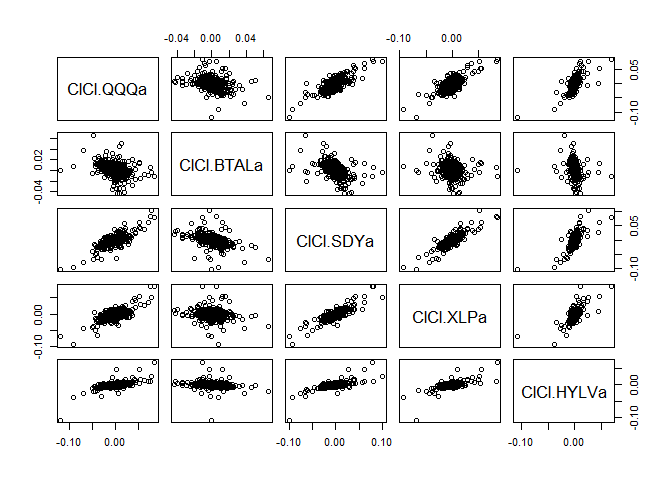
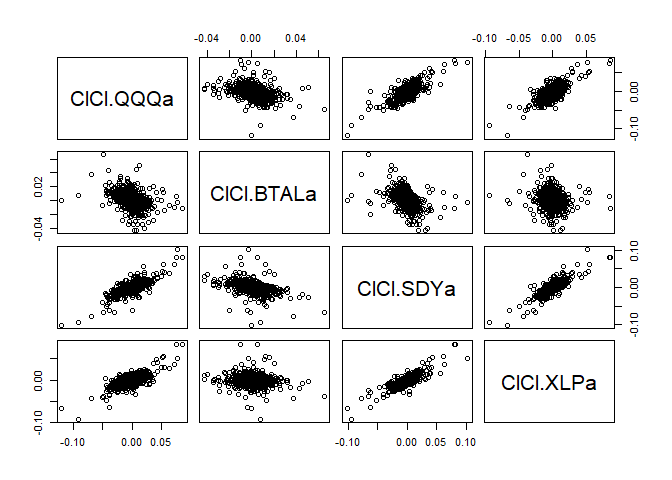
q3

diff --git a/Walker_Jocelyne_Exercises.md b/Walker_Jocelyne_Exercises.md
@@ -375,38 +375,150 @@ information?**
 Portfolio Modeling
 ------------------
 
+We are building three different ETF-based portfolios, each based on a
+different investment risk strategy. These three portfolios each are
+built on different ideas of tracking market movement. For each
+portfolio, we’ll use the last five years of daily data to calculate the
+5% value at risk using 20 trading day bootstrap resampling on a $100,000
+capital investment. Each of these portfolios is redistributed at the end
+of the day to maintain the stated portfolio weights.
+
 ### Portfolio 1: “In it for the long run”
 
-![](Walker_Jocelyne_Exercises_files/figure-markdown_strict/3.1-1.png)![](Walker_Jocelyne_Exercises_files/figure-markdown_strict/3.1-2.png)
+Portfolio 1 is built on the idea of tracking the S&P 500 movement. These
+ETFs are indicators of the entire market trends. Here’s a breakdown of
+the portfolio:
 
-    ## [1] 101406.3
+-   **20% VOO** Vanguard 500 Index Fund, built to track the S&P 500
 
-![](Walker_Jocelyne_Exercises_files/figure-markdown_strict/3.1-3.png)
+-   **20% VTWO** Vanguard Russell 2000 ETF, the next 2,000 diversified
+    stocks after excluding the largest US public companies
+
+-   **20% MGC** Vanguard Mega Cap ETF, diversified large blend domestic
+    ETF
+
+-   **20% SPYG** SPDR Portfolio S&P 500 Growth ETF, high growth large
+    cap companies
+
+-   **20% VTI** Vanguard Total Stock Market ETF, built to track S&P 500,
+    but more mid-cap exposure than VOO
+
+![](Walker_Jocelyne_Exercises_files/figure-markdown_strict/3.1-1.png)
+
+From the pairs correlation matrix above, you can see that the
+Close-to-Close earnings of each of these ETFs are highly correlated.
+Thus, when one goes up, the others also go up. When one goes down, they
+all go down. This is evidence that all of these ETFs are tracking market
+movement and largely moving in the same direction.
+
+Then, we simulate the 20-day trading period of this portfolio.
+
+![](Walker_Jocelyne_Exercises_files/figure-markdown_strict/3.1.a-1.png)![](Walker_Jocelyne_Exercises_files/figure-markdown_strict/3.1.a-2.png)
 
     ##        5% 
-    ## -8431.506
+    ## -8155.048
+
+From the histograms of the portfolio values and earnings, we see that
+negative earnings are a possibility. The 5% value at risk based on a
+20-day bootstrapped period is **-$8279.31** for this portfolio.
 
 ### Portfolio 2: “Thrive on Volatility”
 
-![](Walker_Jocelyne_Exercises_files/figure-markdown_strict/3.2-1.png)![](Walker_Jocelyne_Exercises_files/figure-markdown_strict/3.2-2.png)
+Portfolio 2 is built on the idea of thriving off market volatility.
+These ETFs are designed to thrive in volatile market conditions by
+increasing their diversity. Here’s a breakdown of the portfolio:
 
-    ## [1] 100971.4
+-   **25% QQQ** Invesco QQQ Trust, tracks the Nasdaq 100 index,
+    dominated by big tech names
 
-![](Walker_Jocelyne_Exercises_files/figure-markdown_strict/3.2-3.png)
+-   **25% BTAL** AGFiQ U.S. Market Neutral Anti-Beta Fund, profiting off
+    a spread between high and low beta stocks, performing well when low
+    beta stocks are in favor in stormy market conditions
+
+-   **25% SDY** SPDR S&P Dividend ETF, focusing on dividend growth
+    stocks. Dividends represent a safer return as firms will reduce
+    buybacks before cutting dividends.
+
+-   **25% XLP** SPDR Consumer Staples Select Sector, tracks consumer
+    household stable products like Walmart and Proctor and Gamble that
+    will not fall significantly during volatile markets
+
+![](Walker_Jocelyne_Exercises_files/figure-markdown_strict/3.2-1.png)
+From the pairs plot, we see that these four ETFs are much less strongly
+correlated than the ETFs in Portfolio 1. Thus, I expect this portfolio
+to be “safer” and have a higher Value at Risk.
+
+Then, we simulate the 20-day trading period of this portfolio.
+
+![](Walker_Jocelyne_Exercises_files/figure-markdown_strict/3.2.a-1.png)![](Walker_Jocelyne_Exercises_files/figure-markdown_strict/3.2.a-2.png)
 
     ##        5% 
-    ## -4855.049
+    ## -5047.678
 
-### Portfolio 3: “Bonds and Consumer Staples”
+From the histograms of the portfolio values and earnings, we see that
+negative earnings are a possibility. The 5% value at risk based on a
+20-day bootstrapped period is **-$5,047.68** for this portfolio. This is
+a much “safer” portfolio compared to the portfolio that simply tracks
+the S&P 500 above.
 
-![](Walker_Jocelyne_Exercises_files/figure-markdown_strict/3.3-1.png)![](Walker_Jocelyne_Exercises_files/figure-markdown_strict/3.3-2.png)
+### Portfolio 3: “Safety and Risk-Aversion with Bonds”
 
-    ## [1] 101024.7
+While Portfolio 2 was built on the idea of thriving off market
+volatility, Portfolio 3 attempts to avoid market volatility altogether.
+These “safe” ETFs are designed to withstand market volatility, but have
+a smaller potential return. Here’s a breakdown of the portfolio:
 
-![](Walker_Jocelyne_Exercises_files/figure-markdown_strict/3.3-3.png)
+-   **33% FBND** Fidelity Total Bond ETF, tracks Barclays US Universal
+    Bond Index with diversified sector allocation
+
+-   **33% BLV** Vanguard Long-Term Bond, tracks US government and
+    corporate bonds that have maturities of greater than 10 years
+
+-   **33% BSV** Vanguard Short-Term Bond, built 71% off AAA-rated bonds
+    and 13% in bonds rated BBB.
+
+![](Walker_Jocelyne_Exercises_files/figure-markdown_strict/3.3-1.png)
+From the pairs correlation matrix, we see that these Bond ETFs are less
+correlated than the ETFs in Portfolio 1 and Portfolio 2.
+
+Then, we simulate the 20-day trading period of this portfolio.
+
+![](Walker_Jocelyne_Exercises_files/figure-markdown_strict/3.3.a-1.png)
+
+    ## [1] 100394.5
+
+![](Walker_Jocelyne_Exercises_files/figure-markdown_strict/3.3.a-2.png)
 
     ##        5% 
-    ## -4761.049
+    ## -2553.164
+
+From the histograms of the portfolio values and earnings, we see that
+negative earnings are **still** a possibility. The 5% value at risk
+based on a 20-day bootstrapped period is **-$2,553.16** for this
+portfolio. This is a much “safer” portfolio compared to **both**
+Portfolio 1 and Portfolio 2.
+
+### In summary
+
+-   Portfolio 1 is best suited for longer-term investment. (In fact,
+    some of these ETFs are in our team’s own IRA portfolios.) The 5% VaR
+    is the lowest at **-$8279.31**
+
+-   Portfolio 2 is a better short-term risk fund. Instead of simply
+    tracking the market, it attempts to hedge against market volatility
+    in other ways. These strategies include focusing on high-value tech
+    firms, dividend funds, consumer staples, and low beta stocks. It
+    increases VaR to **-$5,047.68**.
+
+-   Portfolio 3 is the best short-term risk fund as it increases VaR
+    further to **-$2,553.16**. Because it is based on more stable bond
+    indexes, this means that the Value at Risk is higher than the
+    previous two portfolios.
+
+For those most risk-averse investors over a 20-day trading period,
+Portfolio 3 is the safest choice. Over a longer trading period,
+investors may be more likely to choose the portfolios that track the S&P
+500 or thrive off market volatility in the long run.
 
 Market segmentation
 -------------------
